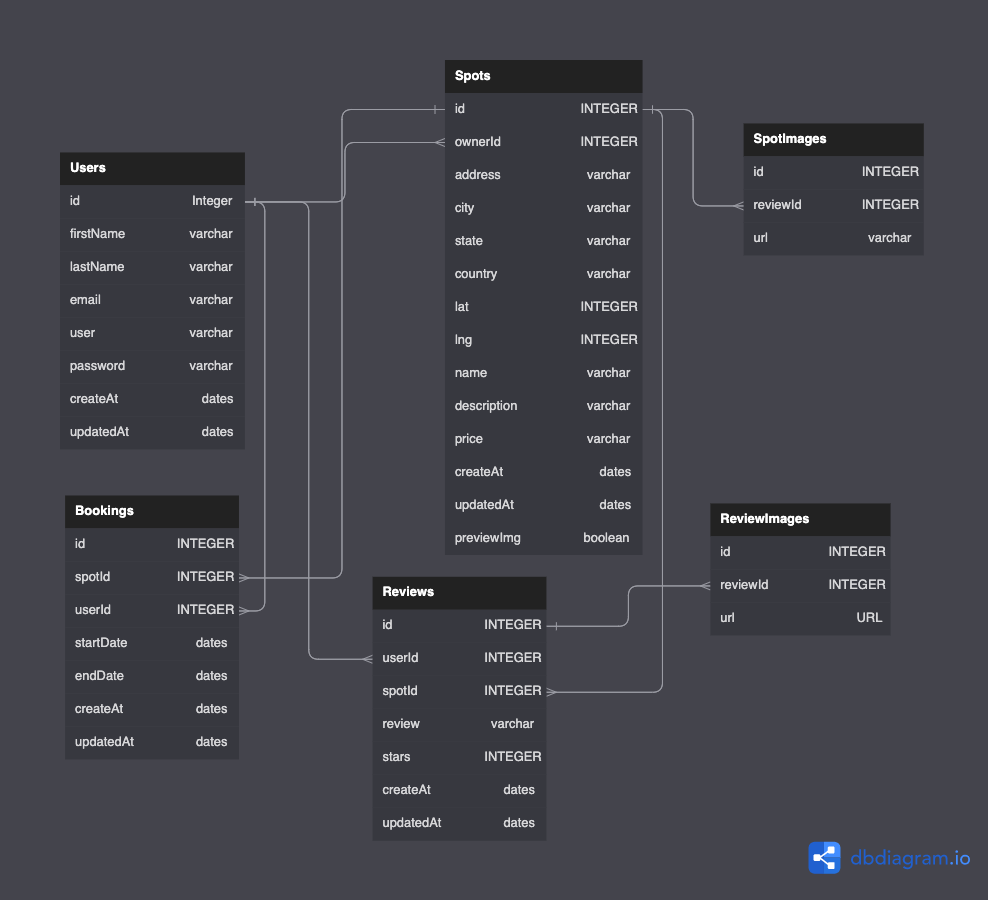
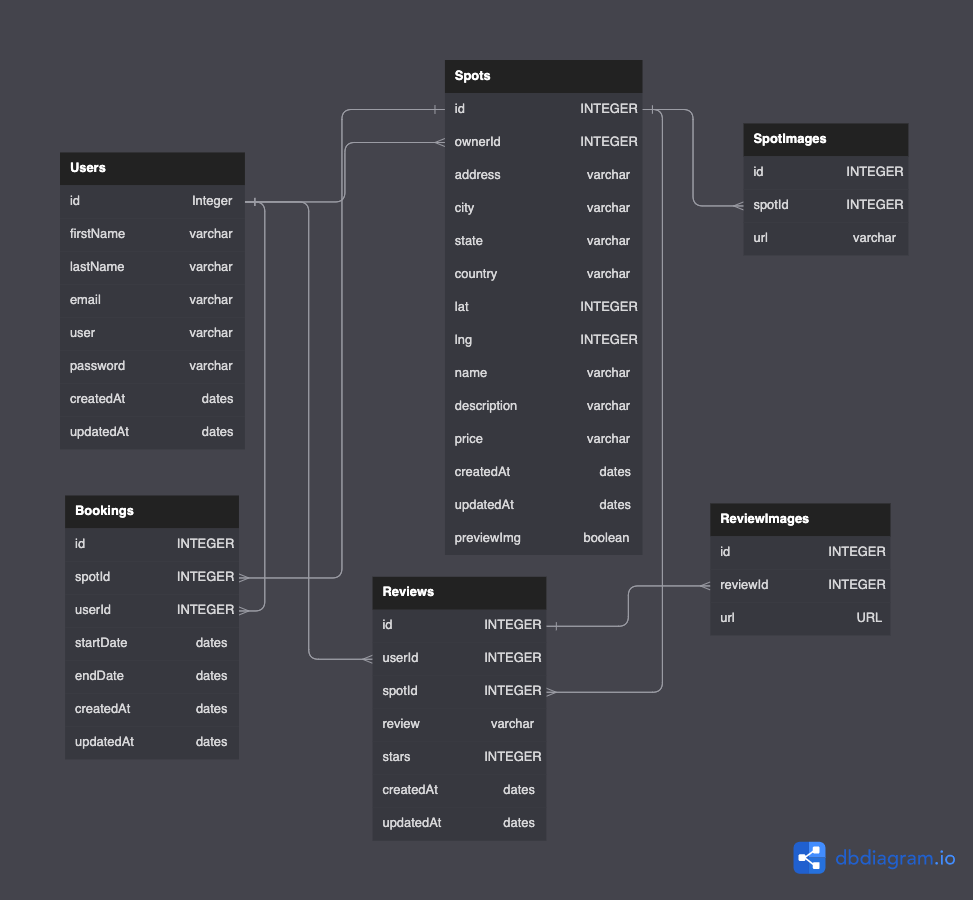
apr17 part 2

diff --git a/backend/API-docs-PokemonBnB.md b/backend/API-docs-PokemonBnB.md
@@ -2,7 +2,7 @@
 
 ## Database Schema Design
 
-`<insert database schema design here>`
+![img](Pokemon%20Kanto.png)
 
 ## API Documentation
 
@@ -287,7 +287,7 @@ Returns all the spots owned (created) by the current user.
 * Require Authentication: true
 * Request
   * Method: GET
-  * URL: /spots/:spotid
+  * URL: /spots/current
   * Body: none
 
 * Successful Response
@@ -326,8 +326,8 @@ Returns the details of a spot specified by its id.
 
 * Require Authentication: false
 * Request
-  * Method: ?
-  * URL: ?
+  * Method: GET
+  * URL: /spots/:spotid
   * Body: none
 
 * Successful Response
@@ -745,7 +745,7 @@ Create and return a new review for a spot specified by id.
 * Require Authentication: true
 * Request
   * Method: POST
-  * URL: /spots/:spotid
+  * URL: /spots/:spotid/reviews
   * Headers:
     * Content-Type: application/json
   * Body:
